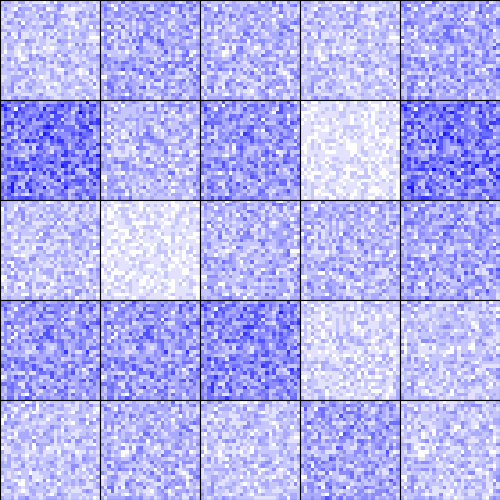
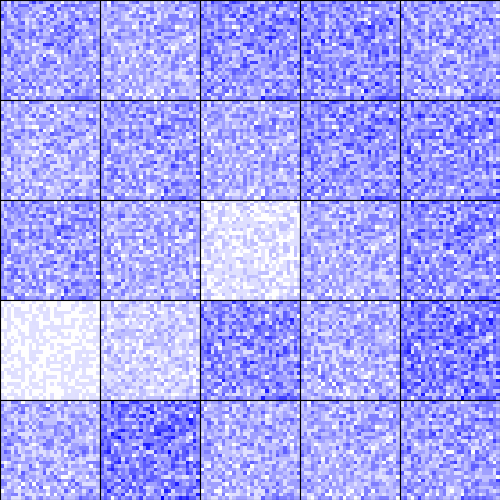
Error function and Gibbs sampling implemented

diff --git a/lab4/rbm.py b/lab4/rbm.py
@@ -1,4 +1,5 @@
 from util import *
+from tqdm import tqdm
 
 class RestrictedBoltzmannMachine():
     '''
@@ -78,28 +79,46 @@ class RestrictedBoltzmannMachine():
         
         n_samples = visible_trainset.shape[0]
         err = 0
+        errors = []
+        elements = int(n_samples / self.batch_size)
 
-        for it in range(n_iterations):
-
+        for it in tqdm(range(n_iterations)):
+            for i in tqdm(range(elements)):
 	    # [TODO TASK 4.1] run k=1 alternating Gibbs sampling : v_0 -> h_0 ->  v_1 -> h_1.
             # you may need to use the inference functions 'get_h_given_v' and 'get_v_given_h'.
             # note that inference methods returns both probabilities and activations (samples from probablities) and you may have to decide when to use what.
 
-            # [TODO TASK 4.1] update the parameters using function 'update_params'
-            
-            # visualize once in a while when visible layer is input images
-            
-            if it % self.rf["period"] == 0 and self.is_bottom:
+                init = int(i % elements)
+                stop = int((init + 1) * self.batch_size)
+                init *= self.batch_size
+                v_0 = visible_trainset[init:stop, :]
+                prob_h_0, h_0 = self.get_h_given_v(v_0)
+                prob_v_1, v_1 = self.get_v_given_h(h_0)
+                prob_h_1, h_1 = self.get_h_given_v(v_1)
+
+                # [TODO TASK 4.1] update the parameters using function 'update_params'
                 
+            self.update_params(v_0, h_0, v_1, h_1)
+
+            # visualize once in a while when visible layer is input images
+                
+            if it % self.rf["period"] == 0 and self.is_bottom:
+                    
                 viz_rf(weights=self.weight_vh[:,self.rf["ids"]].reshape((self.image_size[0],self.image_size[1],-1)), it=it, grid=self.rf["grid"])
 
             # print progress
-            
+                
+            hidden_restored = self.get_h_given_v(v_0)[1]
+            v_restored = self.get_v_given_h(hidden_restored)[1]
+            errors.append(np.linalg.norm(v_0 - v_restored))
+
+            #print ("iteration=%7d recon_loss=%4.4f"%(it, np.linalg.norm(v_0 - v_restored)))
+
             if it % self.print_period == 0 :
 
                 print ("iteration=%7d recon_loss=%4.4f"%(it, np.linalg.norm(visible_trainset - visible_trainset)))
         
-        return
+        return errors
     
 
     def update_params(self,v_0,h_0,v_k,h_k):
@@ -118,9 +137,9 @@ class RestrictedBoltzmannMachine():
 
         # [TODO TASK 4.1] get the gradients from the arguments (replace the 0s below) and update the weight and bias parameters
         
-        self.delta_bias_v += 0
-        self.delta_weight_vh += 0
-        self.delta_bias_h += 0
+        self.delta_bias_v += self.learning_rate * np.sum((v_0 - v_k), axis = 0)
+        self.delta_weight_vh += self.learning_rate * np.dot(v_0.T, h_0) - np.dot(v_k.T, h_k)
+        self.delta_bias_h += self.learning_rate * np.sum((h_0 - h_k), axis = 0)
         
         self.bias_v += self.delta_bias_v
         self.weight_vh += self.delta_weight_vh
@@ -185,7 +204,7 @@ class RestrictedBoltzmannMachine():
         else:
                         
             # [TODO TASK 4.1] compute probabilities and activations (samples from probabilities) of visible layer (replace the pass and zeros below)             
-            prob_v = sigmoid(self.bias_v + hidden_minibatch@self.weight_vh)
+            prob_v = sigmoid(self.bias_v + hidden_minibatch@self.weight_vh.T)
             sample_v = sample_binary(prob_v)
         
         return prob_v, sample_v

diff --git a/lab4/run.py b/lab4/run.py
@@ -20,7 +20,10 @@ if __name__ == "__main__":
                                      batch_size=10
     )
     
-    rbm.cd1(visible_trainset=train_imgs, n_iterations=10000)
+    errors = rbm.cd1(visible_trainset=train_imgs, n_iterations=20)
+    plt.figure()
+    plt.plot(errors)
+    plt.show()
     
     ''' deep- belief net '''
 
